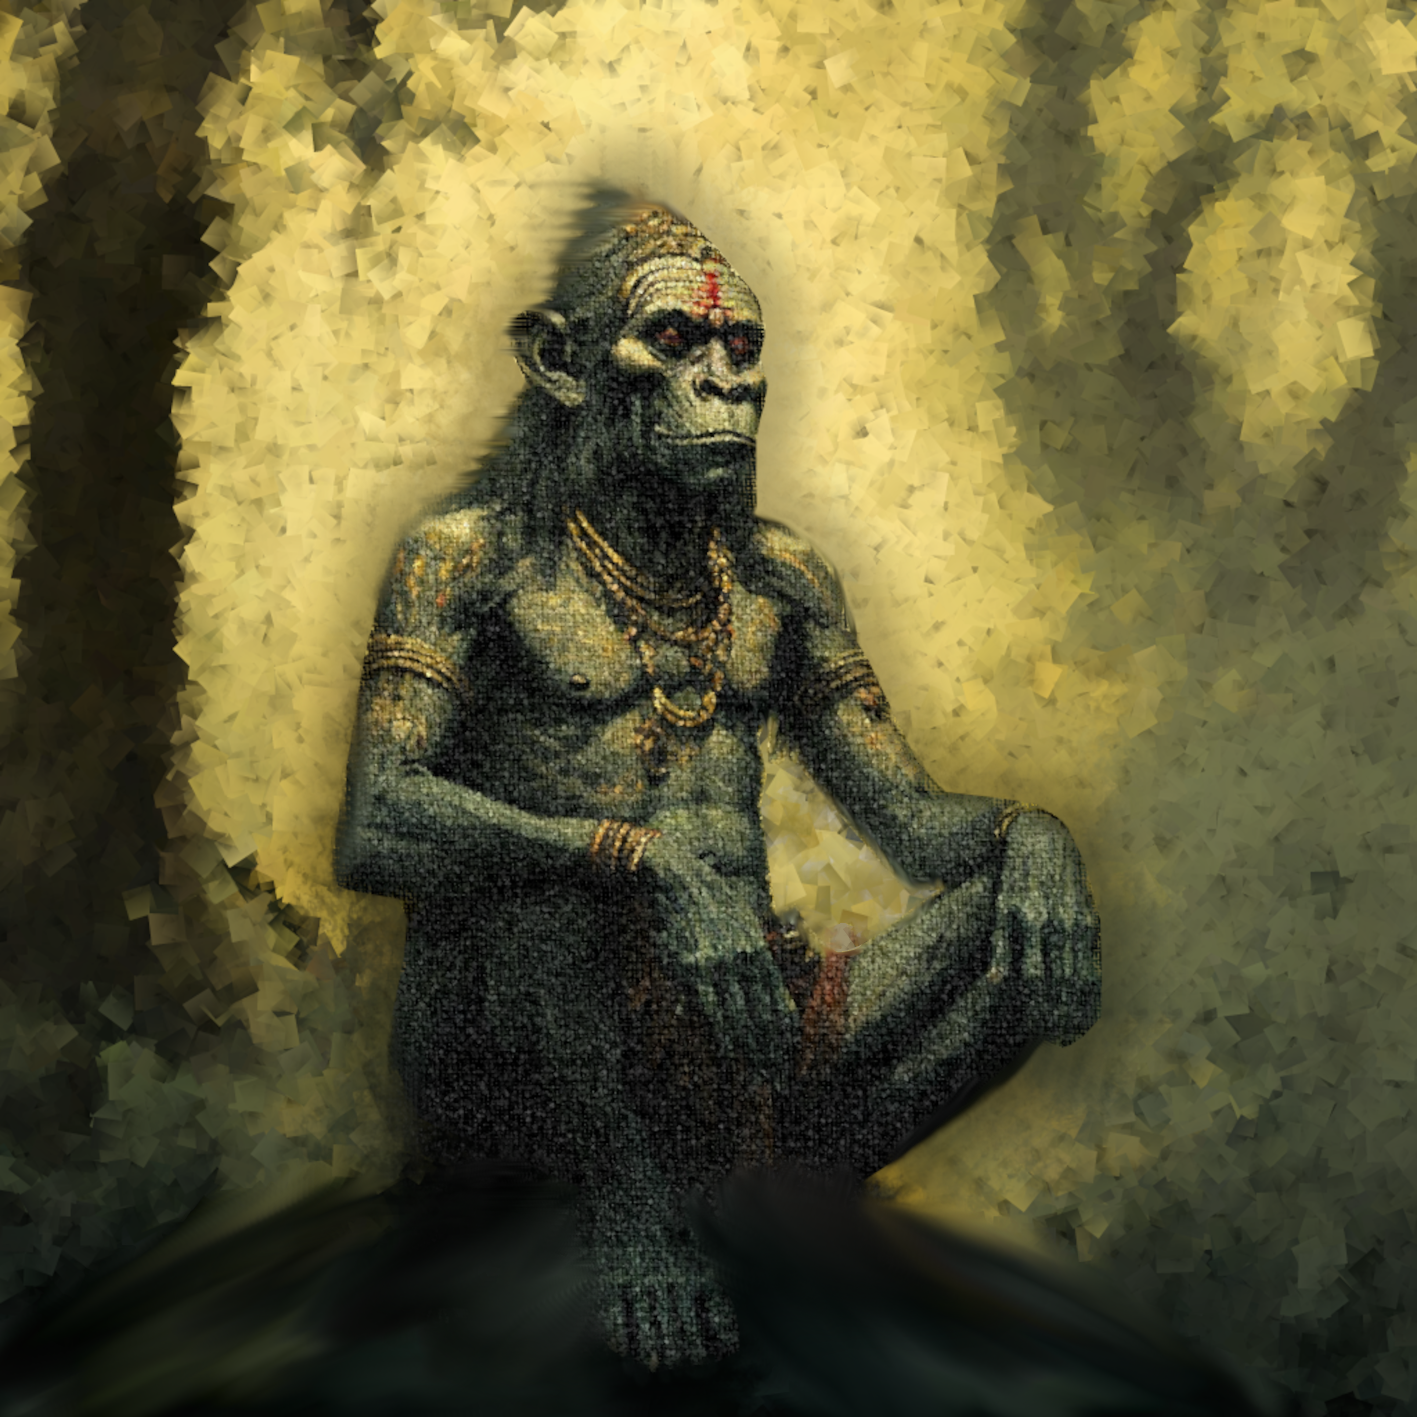
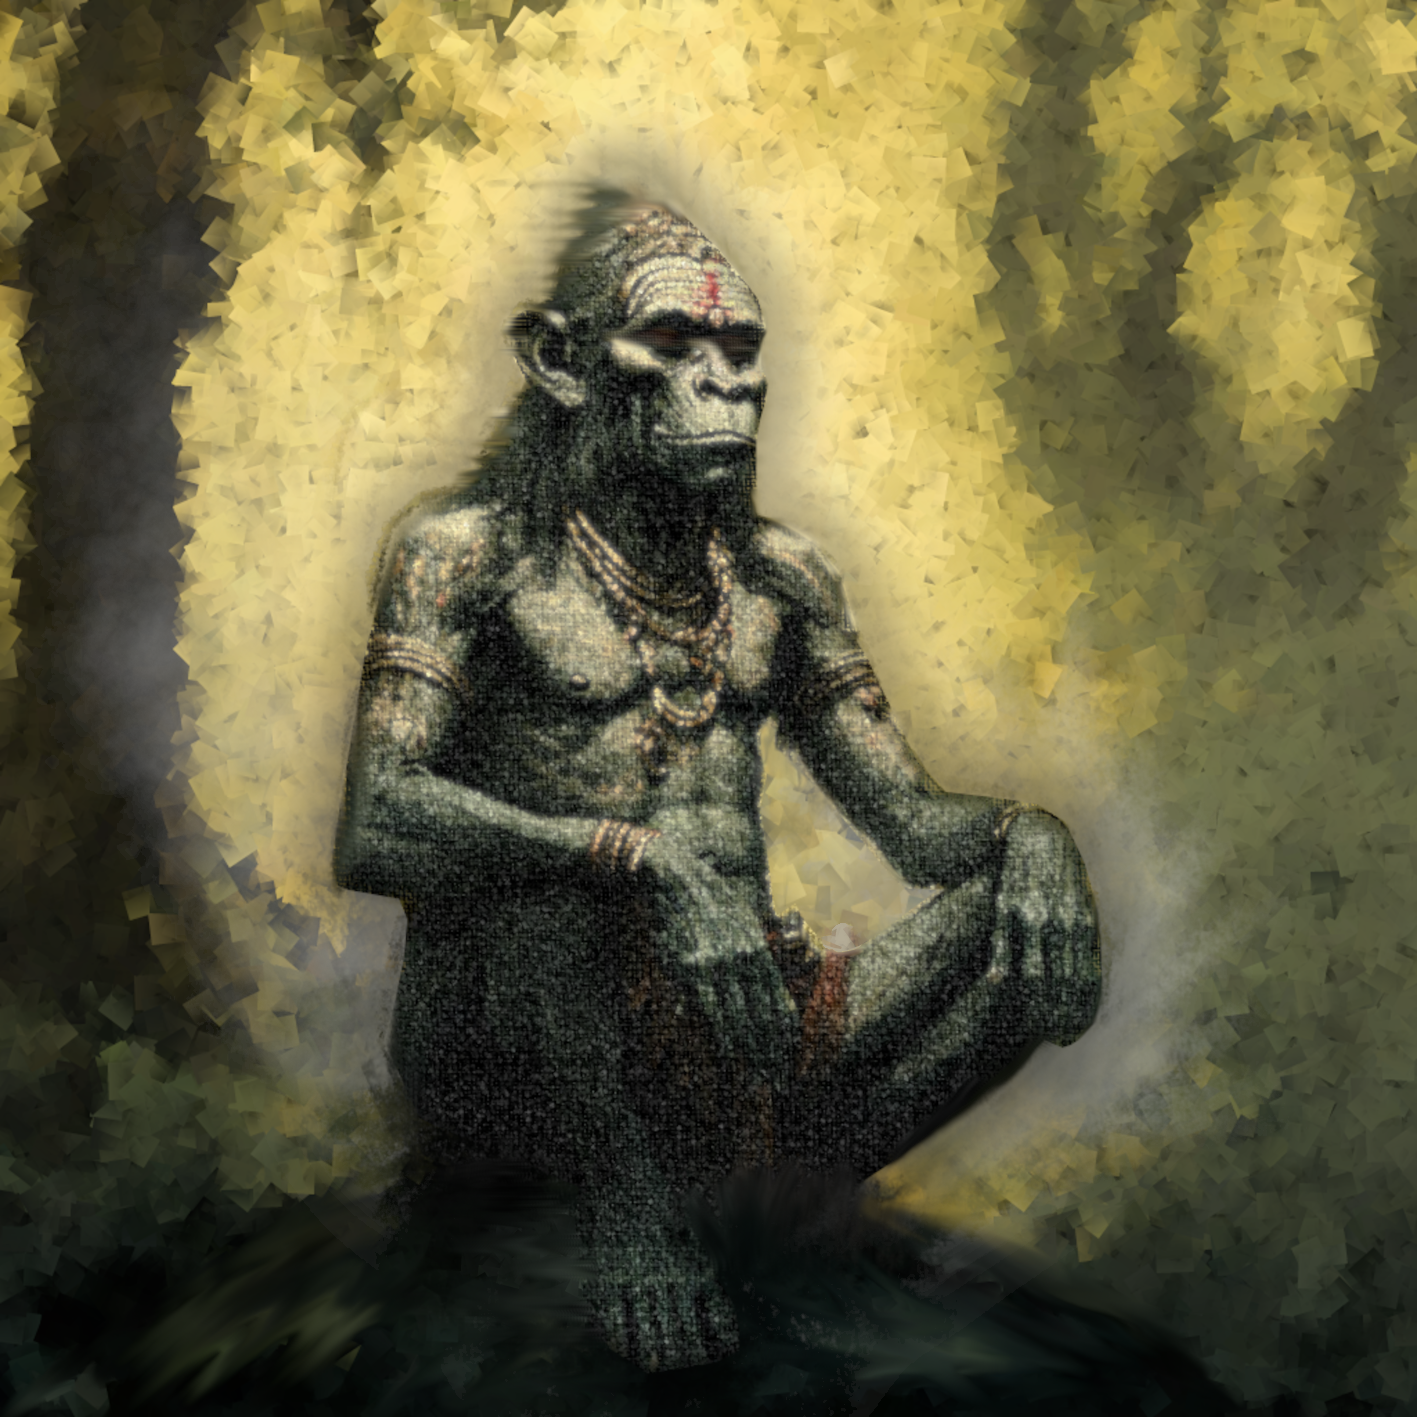
added the baba hanuman post

diff --git a/_projects/babahanuman.md b/_projects/babahanuman.md
@@ -1,0 +1,19 @@
+---
+layout: project
+title: "Baba Hanuman"
+caption: With us always.
+date: '02-08-2022'
+accent_image: /assets/img/projects/BabaHanuman.png   
+image: 
+  path: /assets/img/projects/BabaHanuman.png
+  width:  100%
+  height: auto
+  object-fit: contain
+  # srcset: 
+  #   1920w: /assets/img/mentalclarity.png
+  #   960w:  /assets/img/mentalclarity@0,5x.png
+  #   480w:  /assets/img/mentalclarity@0,25x.png
+sitemap: false
+---
+
+Baba Hanuman is a force of wisdom, courage, and love in the darkest of times. He walks the Earth among us, always within reach when we need him most. 

diff --git a/docs/config.md b/docs/config.md
@@ -108,8 +108,8 @@ The defaults are:
 ~~~yml
 # file: `_config.yml`
 font:         Noto Sans, Helvetica, Arial, sans-serif
-font_heading: Roboto Slab, Helvetica, Arial, sans-serif
-google_fonts: Roboto+Slab:700|Noto+Sans:400,400i,700,700i
+font_heading: Itim, Roboto Slab, Helvetica, Arial, sans-serif
+google_fonts: Itim|Roboto+Slab:700|Noto+Sans:400,400i,700,700i
 ~~~
 
 `font` and `font_heading` must be valid CSS `font-family` values. When using Google Fonts make sure to provide at least one fallback.
